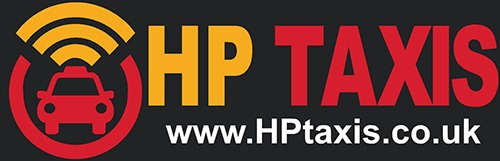
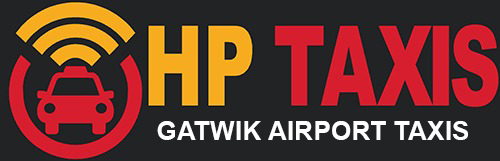
edit3211

diff --git a/about.html b/about.html
@@ -107,7 +107,7 @@
 				<div class="col-md-4 logo-block pull-left">
 					<a href="#">
 						<img src="images/logo.png" alt="Logo" />
-						<b>HP TAXIS</b><span>www.hptaxis.co.uk</span>
+						<b>HP TAXIS</b><span>Gatwick Airport Taxis</span>
 					</a>
 				</div>
 				<!--<div class="col-md-6 pull-right">
@@ -117,11 +117,11 @@
 					</div> -->
 					<div class="phone">
 						<img src="images/icon/phone-ic.png" alt="phone" />
-						<p>Call Us Any Time:<span><a href="tel:12223334444">01444672300</a></span></p>
+						<p>Call Us Any Time:<span><a href="tel:7999980006">7999980006</a></span></p>
 					</div>
 					<div class="phone">
 						<img src="images/icon/whats.png" alt="phone" />
-						<p>Whatsapp Us Any Time:<span> <a href="https://api.whatsapp.com/send?phone=441444672300&text=Hi!%20I%20found%20your%20number%20from%20www.gatwickairports.taxi%2C%20I%20need%20a%20cab.">01444672300</a>
+						<p>Whatsapp Us Any Time:<span> <a href="https://api.whatsapp.com/send?phone=7999980006&text=Hi!%20I%20found%20your%20number%20from%20www.gatwickairports.taxi%2C%20I%20need%20a%20cab.">7999980006</a>
 						</span></p>
 					</div>
 				</div>
@@ -145,13 +145,14 @@
 				</div>
 				<div id="navbar" class="navbar-collapse collapse">
 					<ul class="nav navbar-nav">
+						
+						<li><a href="index.html">Home</a></li>
 						<li class="active dropdown">
-							<a href="#top" class="dropdown-toggle" role="button" aria-haspopup="true" aria-expanded="false">Home</a>
+							<a href="#top" class="dropdown-toggle" role="button" aria-haspopup="true" aria-expanded="false">About Us</a>
 							<i class="ddl-switch fa fa-angle-down"></i>
 							
 						</li>
-						<li><a href="https://hptaxis.co.uk/about-us.php">About Us</a></li>
-						<li><a href="https://hptaxis.co.uk/our-services.php">Our Services</a></li>
+
 						
 						<li><a href="https://hptaxis.co.uk/contact-us.php">Contact US</a></li>							
 					</ul>						
@@ -166,7 +167,7 @@
 		<div class="page-heading">
 			<h3>About Us</h3>
 			<ol class="breadcrumb">
-				<li><a href="#">Home</a></li>
+				<li><a href="index.html">Home</a></li>
 				<li class="active"><a href="#">About Us</a></li>
 			</ol>
 		</div>
@@ -225,48 +226,45 @@
 					<div class="what-we-do-box">						
 						<span>genuine Approach</span>
 						<img src="images/icon/genuine-approach.png" alt="Genuine Approach" />
-						<p>Come and dance on our floor. Take a step that is new. We've a loveable space that needs your face threes company too.</p>
-						<a href="#">Read More</a>
+						<p>HP Taxis is specialized in providing luxury services in proffessional manner! Get in touch with us for any quaries!</p>
+					
 					</div>
 				</div>
 				<div class="col-md-4">
 					<div class="what-we-do-box">						
 						<span>Home Pickup</span>
 						<img src="images/icon/home-pickup.png" alt="home-pickup"/>
-						<p>Come and dance on our floor. Take a step that is new. We've a loveable space that needs your face threes company too.</p>
-						<a href="#">Read More</a>
+						<p>HP Taxi company transports your staff, family or clients, reliably, safely and in style within the UK.</p>
+						
 					</div>
 				</div>
 				<div class="col-md-4">
 					<div class="what-we-do-box">						
-						<span>Airport Transportation</span>
+						<span>Gatwick Airport Transportation</span>
 						<img src="images/icon/airport.png" alt="airport"/>
-						<p>Come and dance on our floor. Take a step that is new. We've a loveable space that needs your face threes company too.</p>
-						<a href="#">Read More</a>
+						<p>HP Taxis specialises in providing luxury services for airport transfers from gatwick airport.</p>
+					
 					</div>
 				</div>
 				<div class="col-md-4">
 					<div class="what-we-do-box">						
 						<span>One way Rental</span>
 						<img src="images/icon/rental.png" alt="Rental"/>
-						<p>Got a dream and we just know now we are gonna make us dream come and we know flipper lives in a world </p>
-						<a href="#">Read More</a>
+						<p>Either one way or two way, HP taxi provides cabs for your needs!</p>
+					
 					</div>
 				</div>
 				<div class="col-md-4">
 					<div class="what-we-do-box">						
 						<span>Company Contract</span>
 						<img src="images/icon/company-contract.png" alt="company-contract"/>
-						<p>Got a dream and we just know now we are gonna make us dream come and we know flipper lives in a world </p>
-						<a href="#">Read More</a>
+						<p>This service provides unlimited executive car services for your employees, clients and even non-passenger deliveries to reduce your costs on private messenger services.</p>
+					
 					</div>
 				</div>
 				<div class="col-md-4">
 					<div class="what-we-do-box">
-						<p>No one you see is smarter than he. The mate was a mighty sailin man Skip brave and sure Five</p>
-						<div class="more-service">
-							<a href="#">Contact Us</a>
-						</div>
+						
 					</div>
 				</div>
 			</div>
@@ -274,31 +272,7 @@
 		<div class="section-padding"></div>
 	</div><!-- What We Do/- -->
 	
-	<!-- Testimonial -->
-	<div class="container-fluid no-padding testimonial">
-		<img src="images/border-pattern.jpg" alt="border"/>
-		<div class="section-padding"></div>
-		<div class="container">
-			<div class="section-header">
-				<h3>Words from Our Customers</h3>				
-			</div>
-			<div id="testimonial-slider" class="carousel slide" data-ride="carousel">
-				<!-- Wrapper for slides -->
-				<div class="carousel-inner" role="listbox">
-					<div class="item active">
-						<p><i class="fa fa-quote-left"></i>Now the world do not move to the beat of just one drum what might be right for you may not be right for some makin their way the only way they know how that's just a little bit more than the law will allow wouldn't you like<i class="fa fa-quote-right"></i></p>
-						<span>Thomas Knoll</span>	
-					</div>
-					<div class="item">
-						<p><i class="fa fa-quote-left"></i>Now the world do not move to the beat of just one drum what might be right for you may not be right for some makin their way the only way they know how that's just a little bit more than the law will allow wouldn't you like<i class="fa fa-quote-right"></i></p>
-						<span>Thomas Knoll</span>
-					</div>
-				</div>
-			</div>
-		</div>
-		<div class="section-padding"></div>	
-		<img src="images/border-pattern.jpg" alt="border"/>
-	</div><!-- Testimonial/- -->
+	
 	
 	<!-- Counter App -->
 	<div id="counter" class="container-fluid no-padding counter-app">
@@ -340,8 +314,8 @@
 				<div class="get-mobile">
 					<h3>Get Our</h3>
 					<h2>Moblie App</h2>
-					<p>Brady Bunch the Brady Bunch that's the way we all became the Brady Bunch. Goodbye gray sky</p>
-					<p class="get-mobile-content">There's nothing can hold Me when I hold you. Feels so right it cant be wrong. Rockin' and rollin' all week long.</p>
+					<p>Download our app to book your cabs easily and precisely!</p>
+					<p class="get-mobile-content">Click below to download!</p>
 					<div class="get-mobile-playstore">
 						<a href="https://play.google.com/store/apps/details?id=cab.reserve.hp94"><img src="images/icon/google-play.png" alt="google-play"/></a>
 				

diff --git a/index.html b/index.html
@@ -107,7 +107,7 @@
 				<div class="col-md-4 logo-block pull-left">
 					<a href="#">
 						<img src="images/logo.png" alt="Logo" />
-						<b>HP TAXIS</b><span>www.hptaxis.co.uk</span>
+						<b>HP TAXIS</b><span>Gatwick Airport Taxis</span>
 					</a>
 				</div>
 				<!--<div class="col-md-6 pull-right">
@@ -117,11 +117,11 @@
 					</div> -->
 					<div class="phone">
 						<img src="images/icon/phone-ic.png" alt="phone" />
-						<p>Call Us Any Time:<span><a href="tel:12223334444">01444672300</a></span></p>
+						<p>Call Us Any Time:<span><a href="tel:7999980006">7999980006</a></span></p>
 					</div>
 					<div class="phone">
 						<img src="images/icon/whats.png" alt="phone" />
-						<p>Whatsapp Us Any Time:<span> <a href="https://api.whatsapp.com/send?phone=441444672300&text=Hi!%20I%20found%20your%20number%20from%20www.gatwickairports.taxi%2C%20I%20need%20a%20cab.">01444672300</a>
+						<p>Whatsapp Us Any Time:<span> <a href="https://api.whatsapp.com/send?phone=7999980006&text=Hi!%20I%20found%20your%20number%20from%20www.gatwickairports.taxi%2C%20I%20need%20a%20cab.">7999980006</a>
 						</span></p>
 					</div>
 				</div>
@@ -150,8 +150,8 @@
 							<i class="ddl-switch fa fa-angle-down"></i>
 							
 						</li>
-						<li><a href="https://hptaxis.co.uk/about-us.php">About Us</a></li>
-						<li><a href="https://hptaxis.co.uk/our-services.php">Our Services</a></li>
+						<li><a href="about.html">About Us</a></li>
+						
 						
 						<li><a href="https://hptaxis.co.uk/contact-us.php">Contact US</a></li>							
 					</ul>						
@@ -267,7 +267,7 @@
 				</div>
 				<div class="col-md-6">
 					<div class="what-we-do-box">						
-						<span>Airport Transportation</span>
+						<span>Gatwick Airport Transportation</span>
 						<img src="images/icon/airport.png" alt="airport"/>
 						<p>HP Taxis are Industry leading experts specialized in providing minicab and luxury services for airport transfers covering all the major airports.</p>
 						
